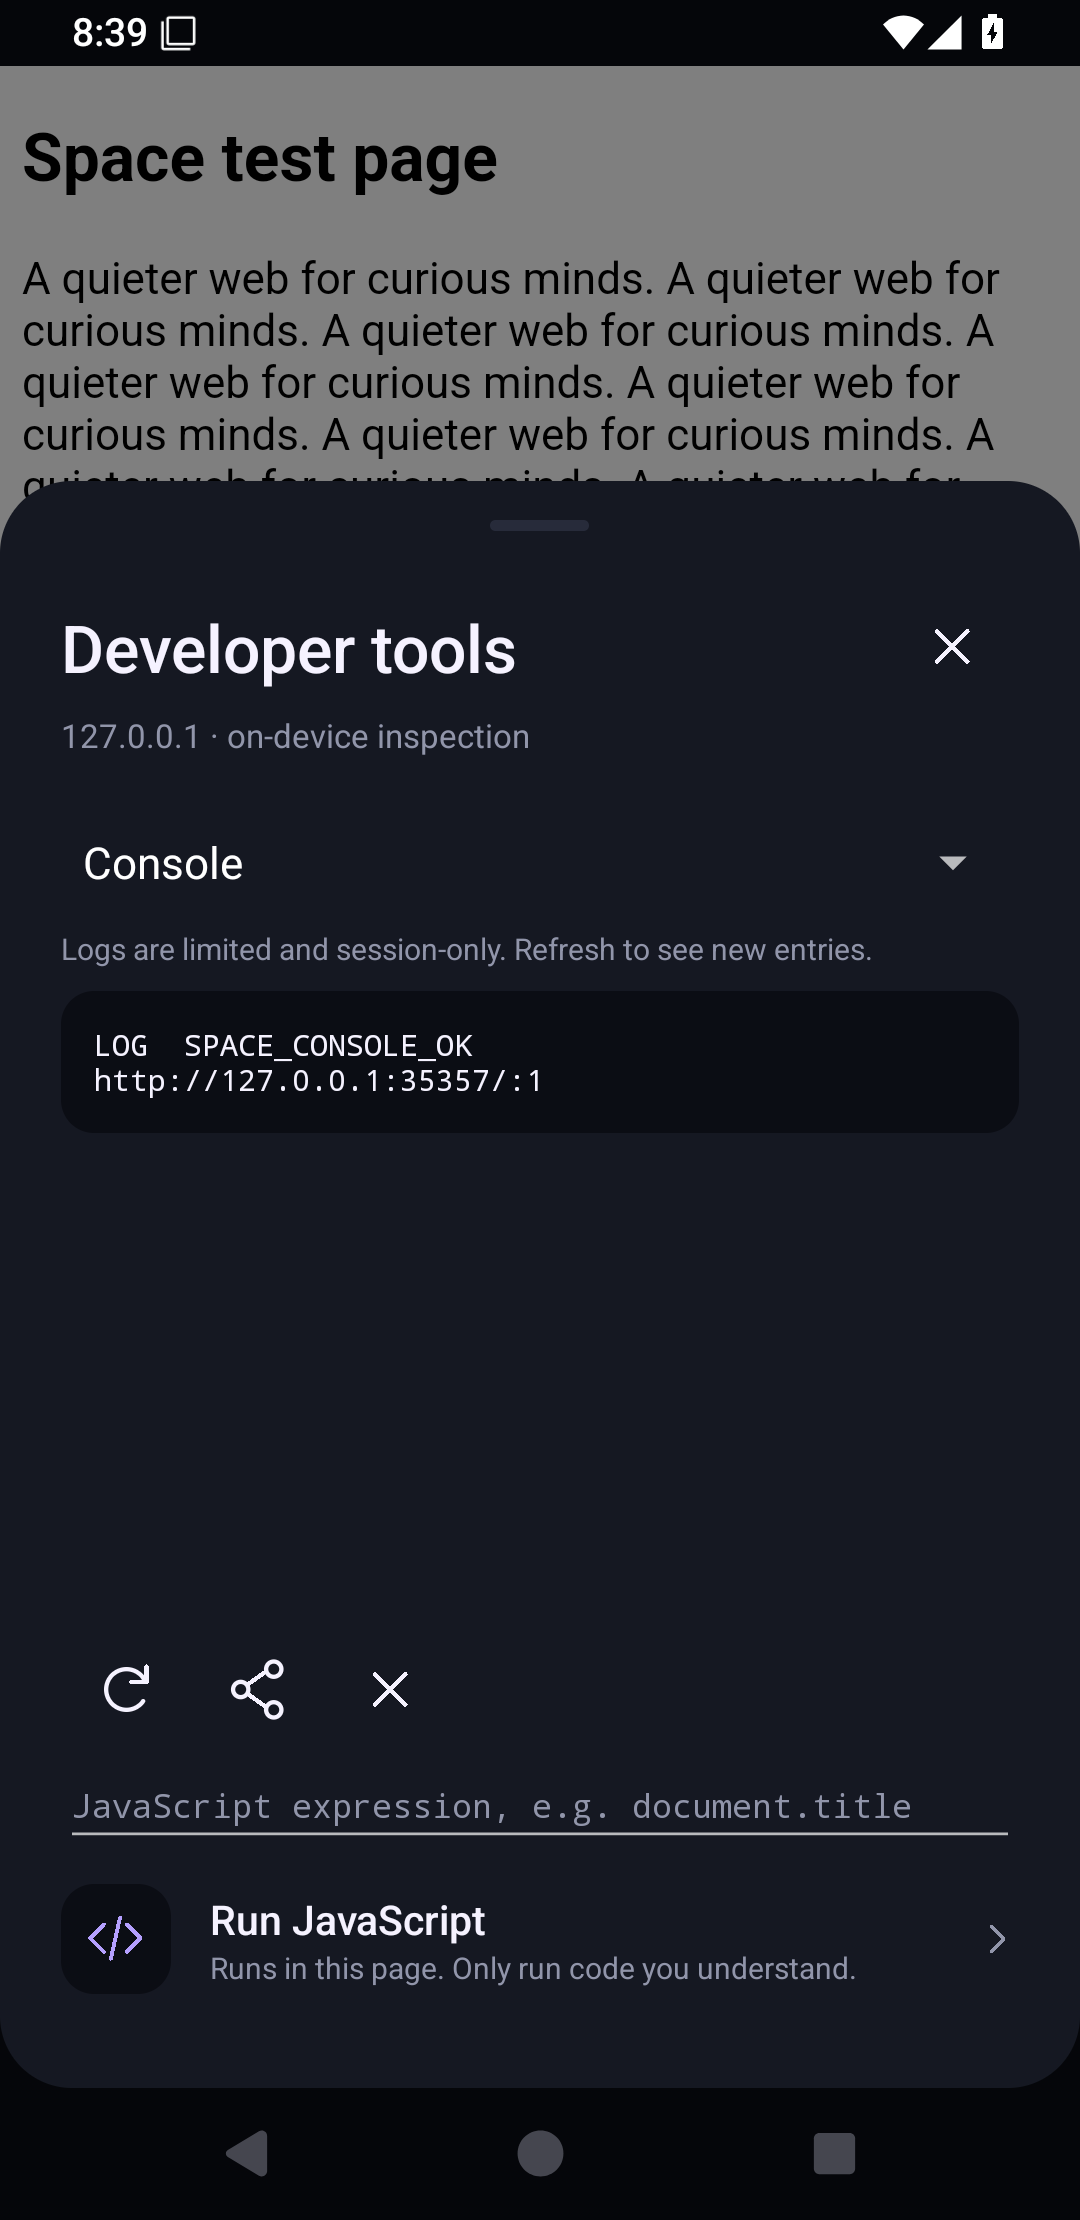
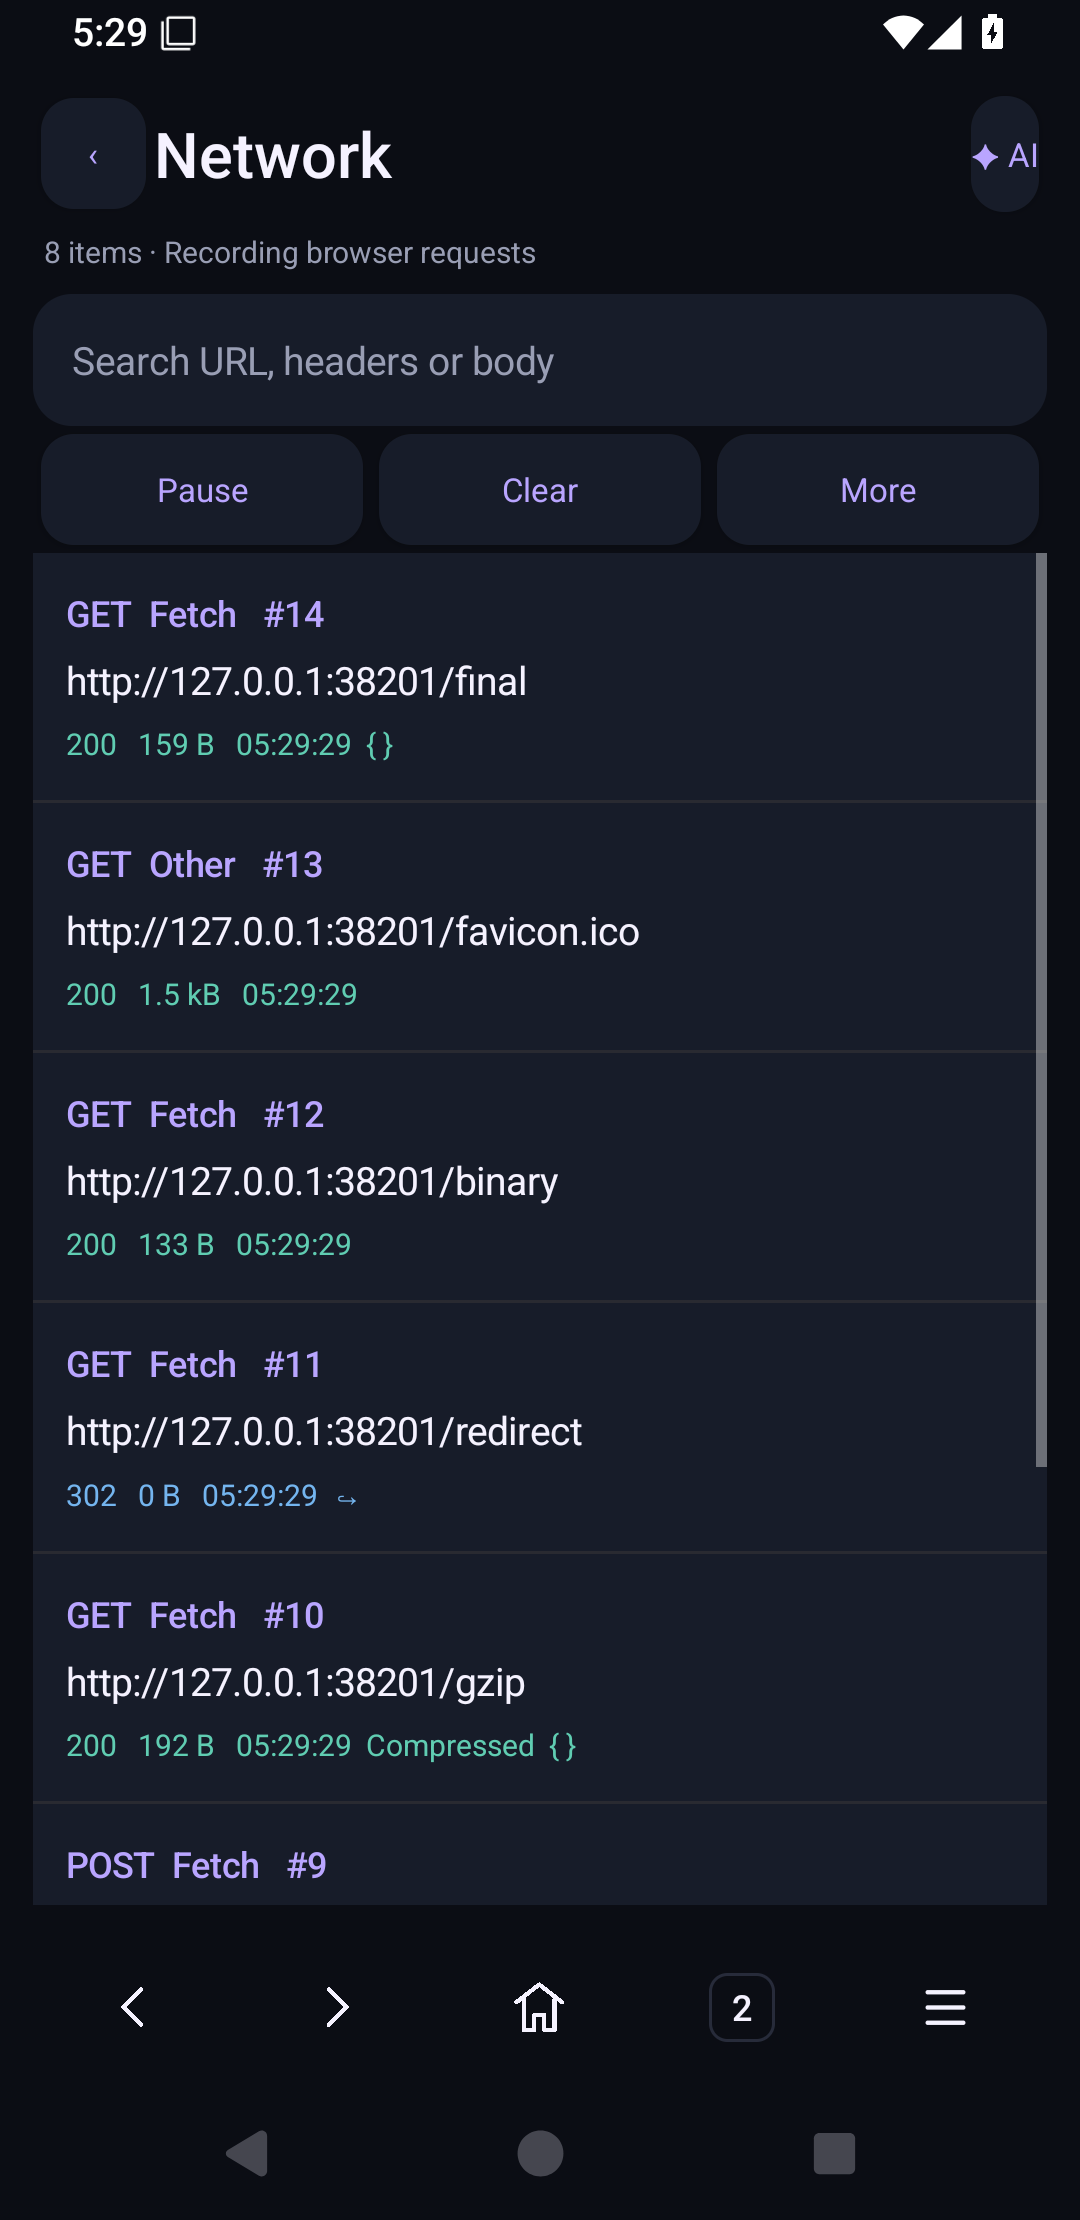
Document verified Space 1.1 screens and network architecture [skip ci]

diff --git a/README.md b/README.md
@@ -10,6 +10,14 @@ Captured from the actual app on an Android 15 emulator.
 | --- | --- | --- |
 | <img src="docs/screenshots/home-dark.png" width="240" alt="Space Browser dark home"> | <img src="docs/screenshots/home-light.png" width="240" alt="Space Browser light home"> | <img src="docs/screenshots/developer-tools.png" width="240" alt="Live network inspector"> |
 
+| Request headers + POST data | Decoded response | Space AI |
+| --- | --- | --- |
+| <img src="docs/screenshots/network-request.png" width="240" alt="Captured request headers and POST data"> | <img src="docs/screenshots/network-response.png" width="240" alt="Decoded JSON response"> | <img src="docs/screenshots/space-ai.png" width="240" alt="Space AI with context controls"> |
+
+| Overview | Search | Popup mode |
+| --- | --- | --- |
+| <img src="docs/screenshots/network-overview.png" width="240" alt="Request overview and timing"> | <img src="docs/screenshots/network-search.png" width="240" alt="All matching requests in network search"> | <img src="docs/screenshots/network-popup.png" width="240" alt="Network inspector as a popup"> |
+
 ## Download the APK
 
 Open [Releases](https://github.com/ArnavSingh76533/spacebb/releases) and download **Space-Browser.apk** from the newest preview. Allow installation from the app you use to open the APK if Android asks.
